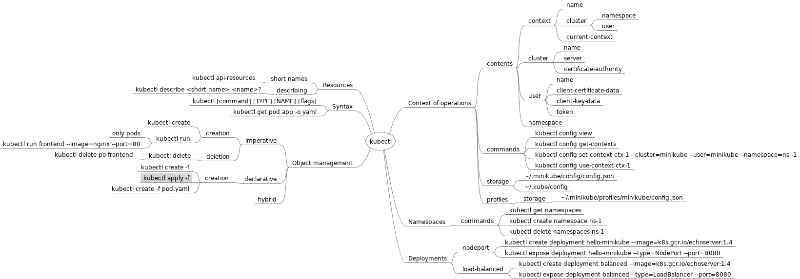
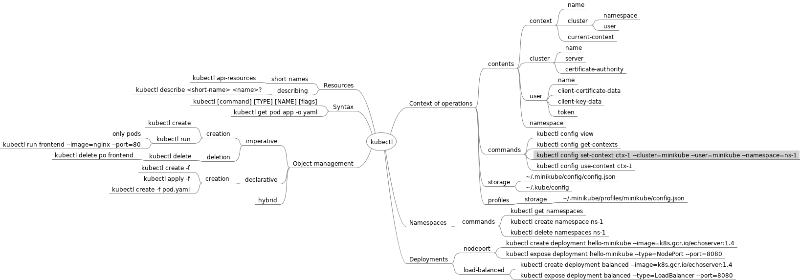
fixed mm

diff --git a/kubernetes/kubectl.mm b/kubernetes/kubectl.mm
@@ -27,7 +27,7 @@
 <node CREATED="1609446397923" ID="ID_1743909941" MODIFIED="1609446399758" TEXT="commands">
 <node CREATED="1609446404123" ID="ID_1495708196" MODIFIED="1609446416911" TEXT="kubectl config view"/>
 <node CREATED="1609446769291" ID="ID_1298084396" MODIFIED="1609446770343" TEXT="kubectl config get-contexts"/>
-<node CREATED="1609447951806" ID="ID_1684158356" MODIFIED="1609448768260" TEXT="kubectl config set-context ctx-1 --cluster=minikube --user=minikube --namespace=ns--1"/>
+<node CREATED="1609447951806" ID="ID_1684158356" MODIFIED="1609468253802" TEXT="kubectl config set-context ctx-1 --cluster=minikube --user=minikube --namespace=ns-1"/>
 <node CREATED="1609447680598" ID="ID_174526831" MODIFIED="1609447681929" TEXT="kubectl config use-context ctx-1"/>
 </node>
 <node CREATED="1609446460011" ID="ID_1337714378" MODIFIED="1609446465991" TEXT="storage">
